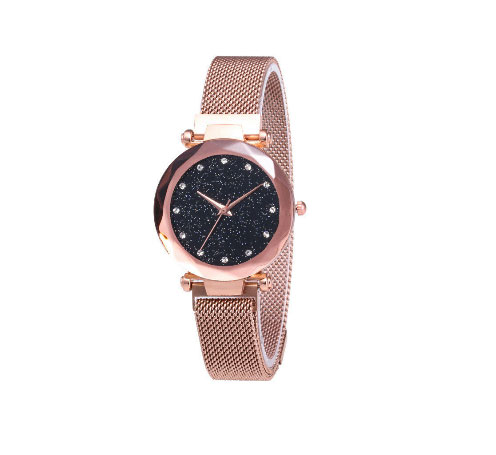
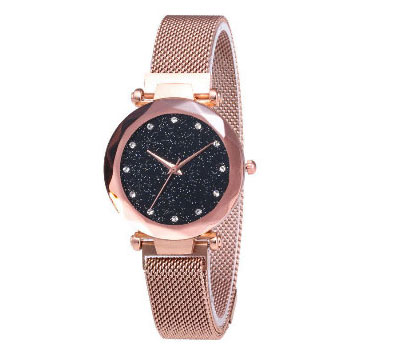
add produc slider

Changed region(s): [[0.2424, 0.031, 0.6667, 0.9606]]

diff --git a/src/blocks/product-page/product-page.scss b/src/blocks/product-page/product-page.scss
@@ -7,6 +7,7 @@
 	/* 3 Typography */
 
 	/* 4 Visual */
+	overflow: hidden;
 
 	/* 5 Animation */
 
@@ -45,7 +46,7 @@
 	}
 	@media(min-width: 1200px) {
 		/* 2 Block model */
-		padding-left: 536px;
+		padding-left: 526px;
 	}
 }
 .product-page__title .h2 {
@@ -61,39 +62,55 @@
 		justify-content: flex-start;
 	}
 }
-.product-page__img {
+.product-page__slider {
 	/* 2 Block model */
 	box-sizing: border-box;
 
+	/* 4 Visual */
+	border: 1px solid #e3e8e9;
+	border-radius: 9px;
+	overflow: hidden;
+
 	@media(min-width: 768px) {
 		/* 2 Block model */
-		width: 250px;
-		flex: 0 0 250px;
-		padding-right: 30px;
+		width: 220px;
+		height: 210px;
+		flex: 0 0 220px;		
 		margin-top: -70px;
+		margin-right: 30px;
 	}
 	@media(min-width: 992px) {
 		/* 2 Block model */
-		width: 380px;
-		flex: 0 0 380px;
-		padding-right: 40px;
+		width: 340px;
+		height: 320px;
+		flex: 0 0 340px;		
 		margin-top: -70px;
+		margin-right: 40px;
 	}
 	@media(min-width: 1200px) {
 		/* 2 Block model */
-		width: 526px;
-		flex: 0 0 526px;
+		width: 496px;
+		height: 456px;
+		flex: 0 0 496px;
 		margin-top: -77px;
-		padding-right: 30px;
+		margin-right: 30px;
 	}
 }
-.product-page__img img {
+.product-page__slider-item {
+	/* 2 Block model */
+	padding: 40px;
+	box-sizing: border-box;
+}
+.product-page__slider-item:focus {
+	/* 4 Visual */
+	outline: none;
+}
+.product-page__slider img {
 	/* 2 Block model */
 	display: block;
 	width: 100%;
 
 	/* 4 Visual */
-	border: 1px solid #e3e8e9;
 	border-radius: 9px;
 }
 .product-page__info {
@@ -176,8 +193,12 @@
 	/* 4 Visual */
 	cursor: pointer;
 	background-color: #eeeeee;
-	border: 3px solid #d6d6d6;
+	border: 3px solid #ffffff;
 	border-radius: 50%;
+}
+.product-page__colors a.product-page__color-active {
+	/* 4 Visual */
+	border: 3px solid #d6d6d6;
 }
 .product-page__colors a:hover {
 	/* 4 Visual */

diff --git a/src/blocks/product-page/product-page.js b/src/blocks/product-page/product-page.js
@@ -1,0 +1,15 @@
+let productPageSlider = $('.product-page__slider').slick({
+  dots: false,
+  infinite: false,
+  speed: 300,
+  slidesToShow: 1,
+  slidesToScroll: 1,
+  arrows: false,
+});
+
+$('.product-page__colors a').on('click', function(e) {
+	e.preventDefault();
+	$('.product-page__colors a').removeClass('product-page__color-active');
+	$(this).addClass('product-page__color-active');
+	productPageSlider.slick('slickGoTo', $(this).attr('data-product-color'));
+});
